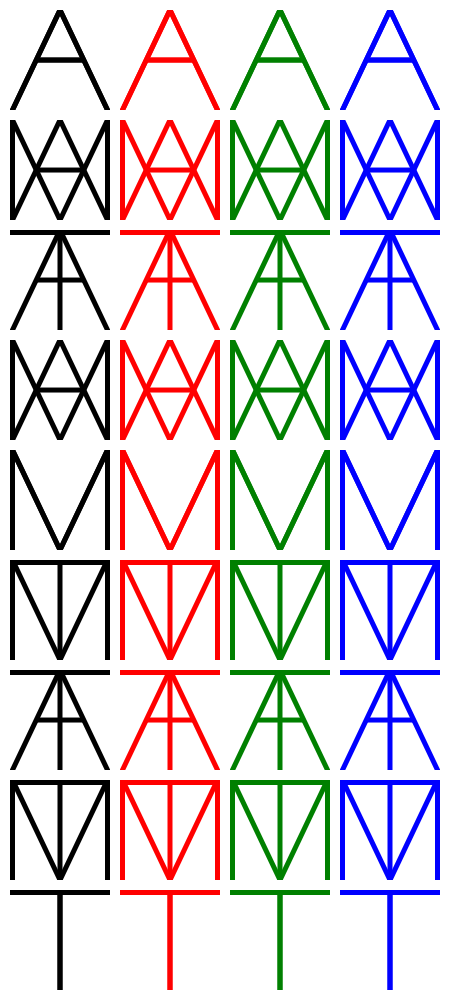
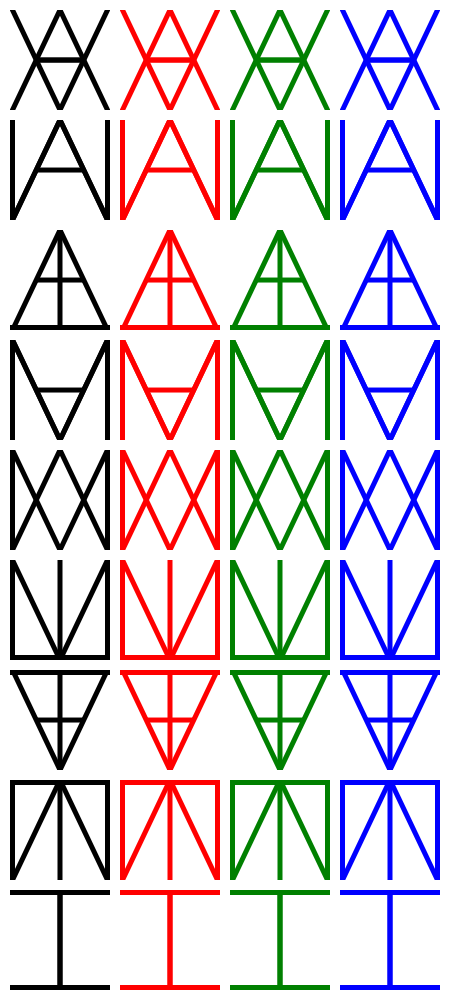
Update readme

diff --git a/test/test_examples.py b/test/test_examples.py
@@ -1,6 +1,6 @@
 from pathlib import Path
 
-from glyphsynth import BaseParams, BaseGlyph
+from glyphsynth import BaseParams, BaseGlyph, EmptyGlyph
 
 
 from .conftest import write_glyph
@@ -25,7 +25,7 @@ class MySquareGlyph(BaseGlyph[MySquareParams]):
     size_canon = (100.0, 100.0)
 
     def draw(self):
-        # Draw a rectangle using the provided color
+        # Draw a centered square using the provided color
         self.draw_rect((25.0, 25.0), (50.0, 50.0), fill=self.params.color)
 
         # Draw a black border around the perimeter
@@ -94,7 +94,23 @@ def test_blue_square(output_dir: Path):
     blue_square = MySquareGlyph(
         glyph_id="blue-square", params=MySquareParams(color="blue")
     )
+
     write_glyph(output_dir, blue_square)
+
+    blue_square2 = EmptyGlyph(glyph_id="blue-square-2", size=(100, 100))
+
+    # Draw a centered square
+    blue_square2.draw_rect((25.0, 25.0), (50.0, 50.0), fill="blue")
+
+    # Draw a black border around the perimeter
+    blue_square2.draw_polyline(
+        [(0.0, 0.0), (0.0, 100.0), (100.0, 100.0), (100.0, 0), (0.0, 0.0)],
+        stroke="black",
+        fill="none",
+        stroke_width="5",
+    )
+
+    write_glyph(output_dir, blue_square2)
 
 
 def test_square(output_dir: Path):

diff --git a/test/lib/test_variant.py b/test/lib/test_variant.py
@@ -39,7 +39,10 @@ class AMTComboGlyph(BaseLetterComboGlyph[AMTComboParams]):
     def draw(self):
         # draw letters given by params
         self.draw_letter(self.params.letter1)
-        self.draw_letter(self.params.letter2)
+        letter2 = self.draw_letter(self.params.letter2)
+
+        # additionally rotate letter2
+        letter2.rotate(180)
 
 
 class VariantFactory(BaseVariantExportFactory[AMTComboGlyph]):

diff --git a/README.md b/README.md
@@ -45,8 +45,8 @@ class MySquareGlyph(BaseGlyph[MySquareParams]):
 
     def draw(self):
 
-        # Draw a centered rectangle using the provided color
-        self.draw_rect((50.0, 50.0), (50.0, 50.0), fill=self.params.color)
+        # Draw a centered square using the provided color
+        self.draw_rect((25.0, 25.0), (50.0, 50.0), fill=self.params.color)
 
         # Draw a black border around the perimeter
         self.draw_polyline(
@@ -58,7 +58,9 @@ class MySquareGlyph(BaseGlyph[MySquareParams]):
 
 
 # Create glyph instance
-blue_square = MySquareGlyph(glyph_id="blue-square", params=MySquareParams(color="blue"))
+blue_square = MySquareGlyph(
+    glyph_id="blue-square", params=MySquareParams(color="blue")
+)
 
 # Render as image
 blue_square.export_png(Path("my_glyph_renders"))
@@ -67,6 +69,25 @@ blue_square.export_png(Path("my_glyph_renders"))
 This is rendered as:
 
 [![Blue-square](./examples/blue-square.png)]()
+
+Equivalently, the same glyph can be constructed from an `EmptyGlyph`:
+
+```python
+from glyphsynth import EmptyGlyph
+
+blue_square = EmptyGlyph(glyph_id="blue-square", size=(100, 100))
+
+# Draw a centered square
+blue_square.draw_rect((25.0, 25.0), (50.0, 50.0), fill="blue")
+
+# Draw a black border around the perimeter
+blue_square.draw_polyline(
+    [(0.0, 0.0), (0.0, 100.0), (100.0, 100.0), (100.0, 0), (0.0, 0.0)],
+    stroke="black",
+    fill="none",
+    stroke_width="5",
+)
+```
 
 ## Exporting
 
@@ -226,7 +247,7 @@ fractal = SquareFractalGlyph(
 
 [![Variants matrix](./examples/variants-matrix-pad.png)]()
 
-This illustrates the use of letter glyphs, provided by this package as a library, to create parameterized geometric designs. The letters `A`, `M`, and `T` are selected for a range of color variants.
+This illustrates the use of letter glyphs, provided by this package as a library, to create parameterized geometric designs. Permutations of pairs of letters `A`, `M`, and `T` are selected for a range of color variants, with the second letter being rotated 180 degrees.
 
 ```python
 from glyphsynth.lib.alphabet.minimal import (
@@ -263,10 +284,13 @@ class AMTComboParams(LetterComboParams):
 # Glyph class
 class AMTComboGlyph(BaseLetterComboGlyph[AMTComboParams]):
     def draw(self):
-
+        
         # draw letters given by params
         self.draw_letter(self.params.letter1)
-        self.draw_letter(self.params.letter2)
+        letter2 = self.draw_letter(self.params.letter2)
+
+        # additionally rotate letter2
+        letter2.rotate(180)
 ```
 
 A subclass of `BaseVariantExportFactory` can be used as a convenience for generating variants:
